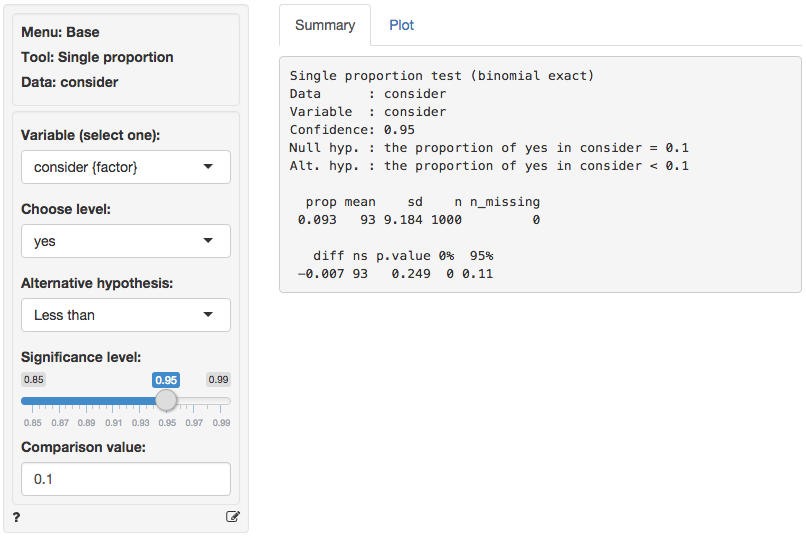
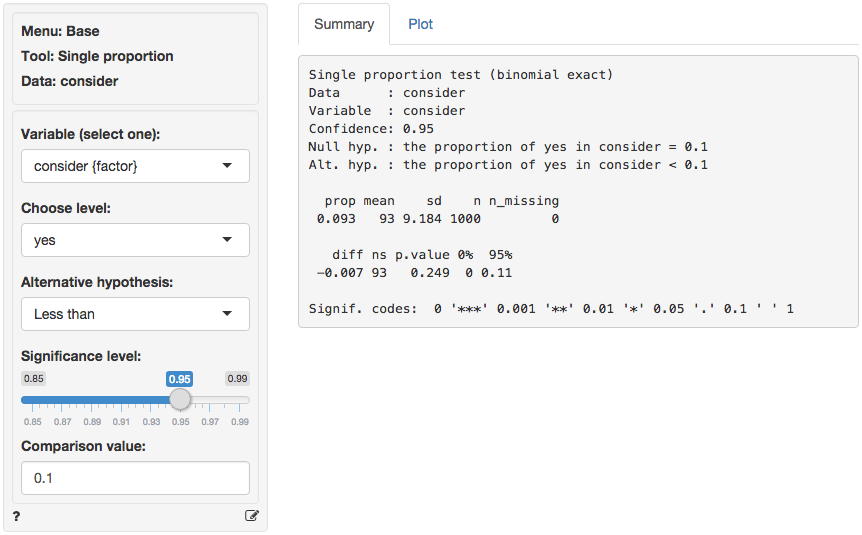
Update [ci skip]

diff --git a/inst/quant/tools/help/single_mean.md b/inst/quant/tools/help/single_mean.md
@@ -28,7 +28,7 @@ There are three approaches we can use to evaluate the null hypothesis. We will c
 
 #### p.value
 
-Because the p.value is **smaller** than the conventional significance level (i.e., 0.05) we reject the null hypothesis and suggest that management should enter the UK market.
+Because the p.value is **smaller** than the conventional significance level (i.e., 0.05) we reject the null hypothesis and suggest that management should enter the UK market. Note also the '***' that are used as an indicator for significance.
 
 #### confidence interval
 
